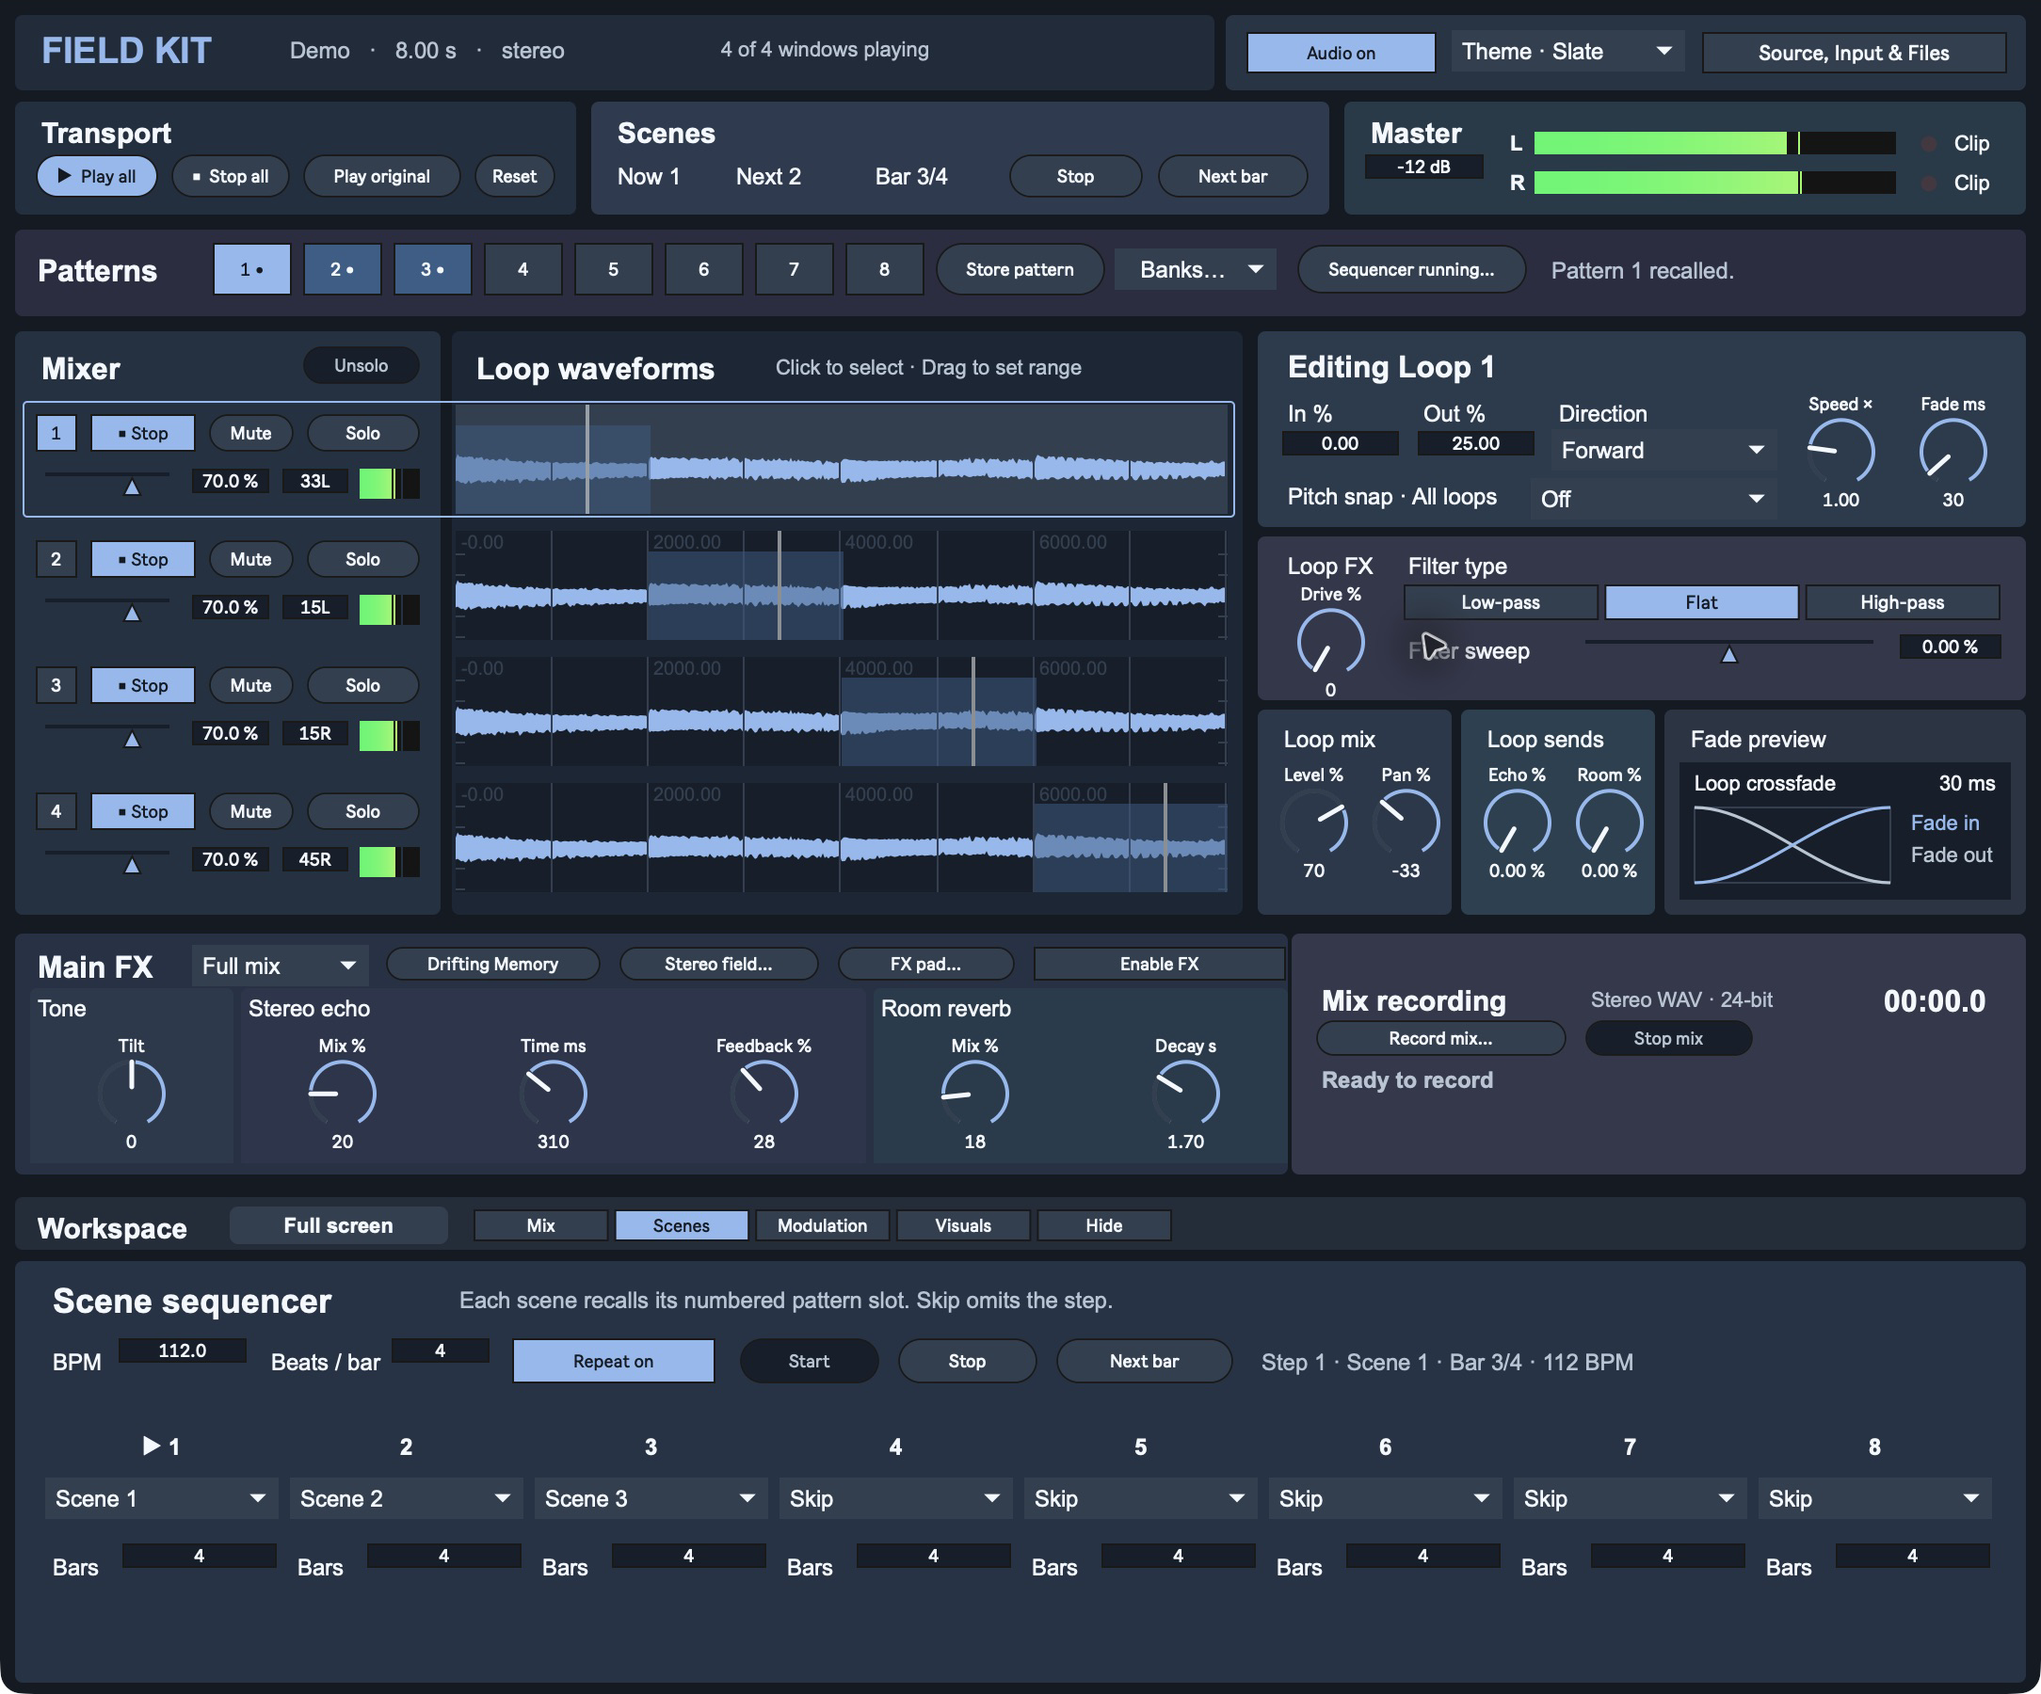
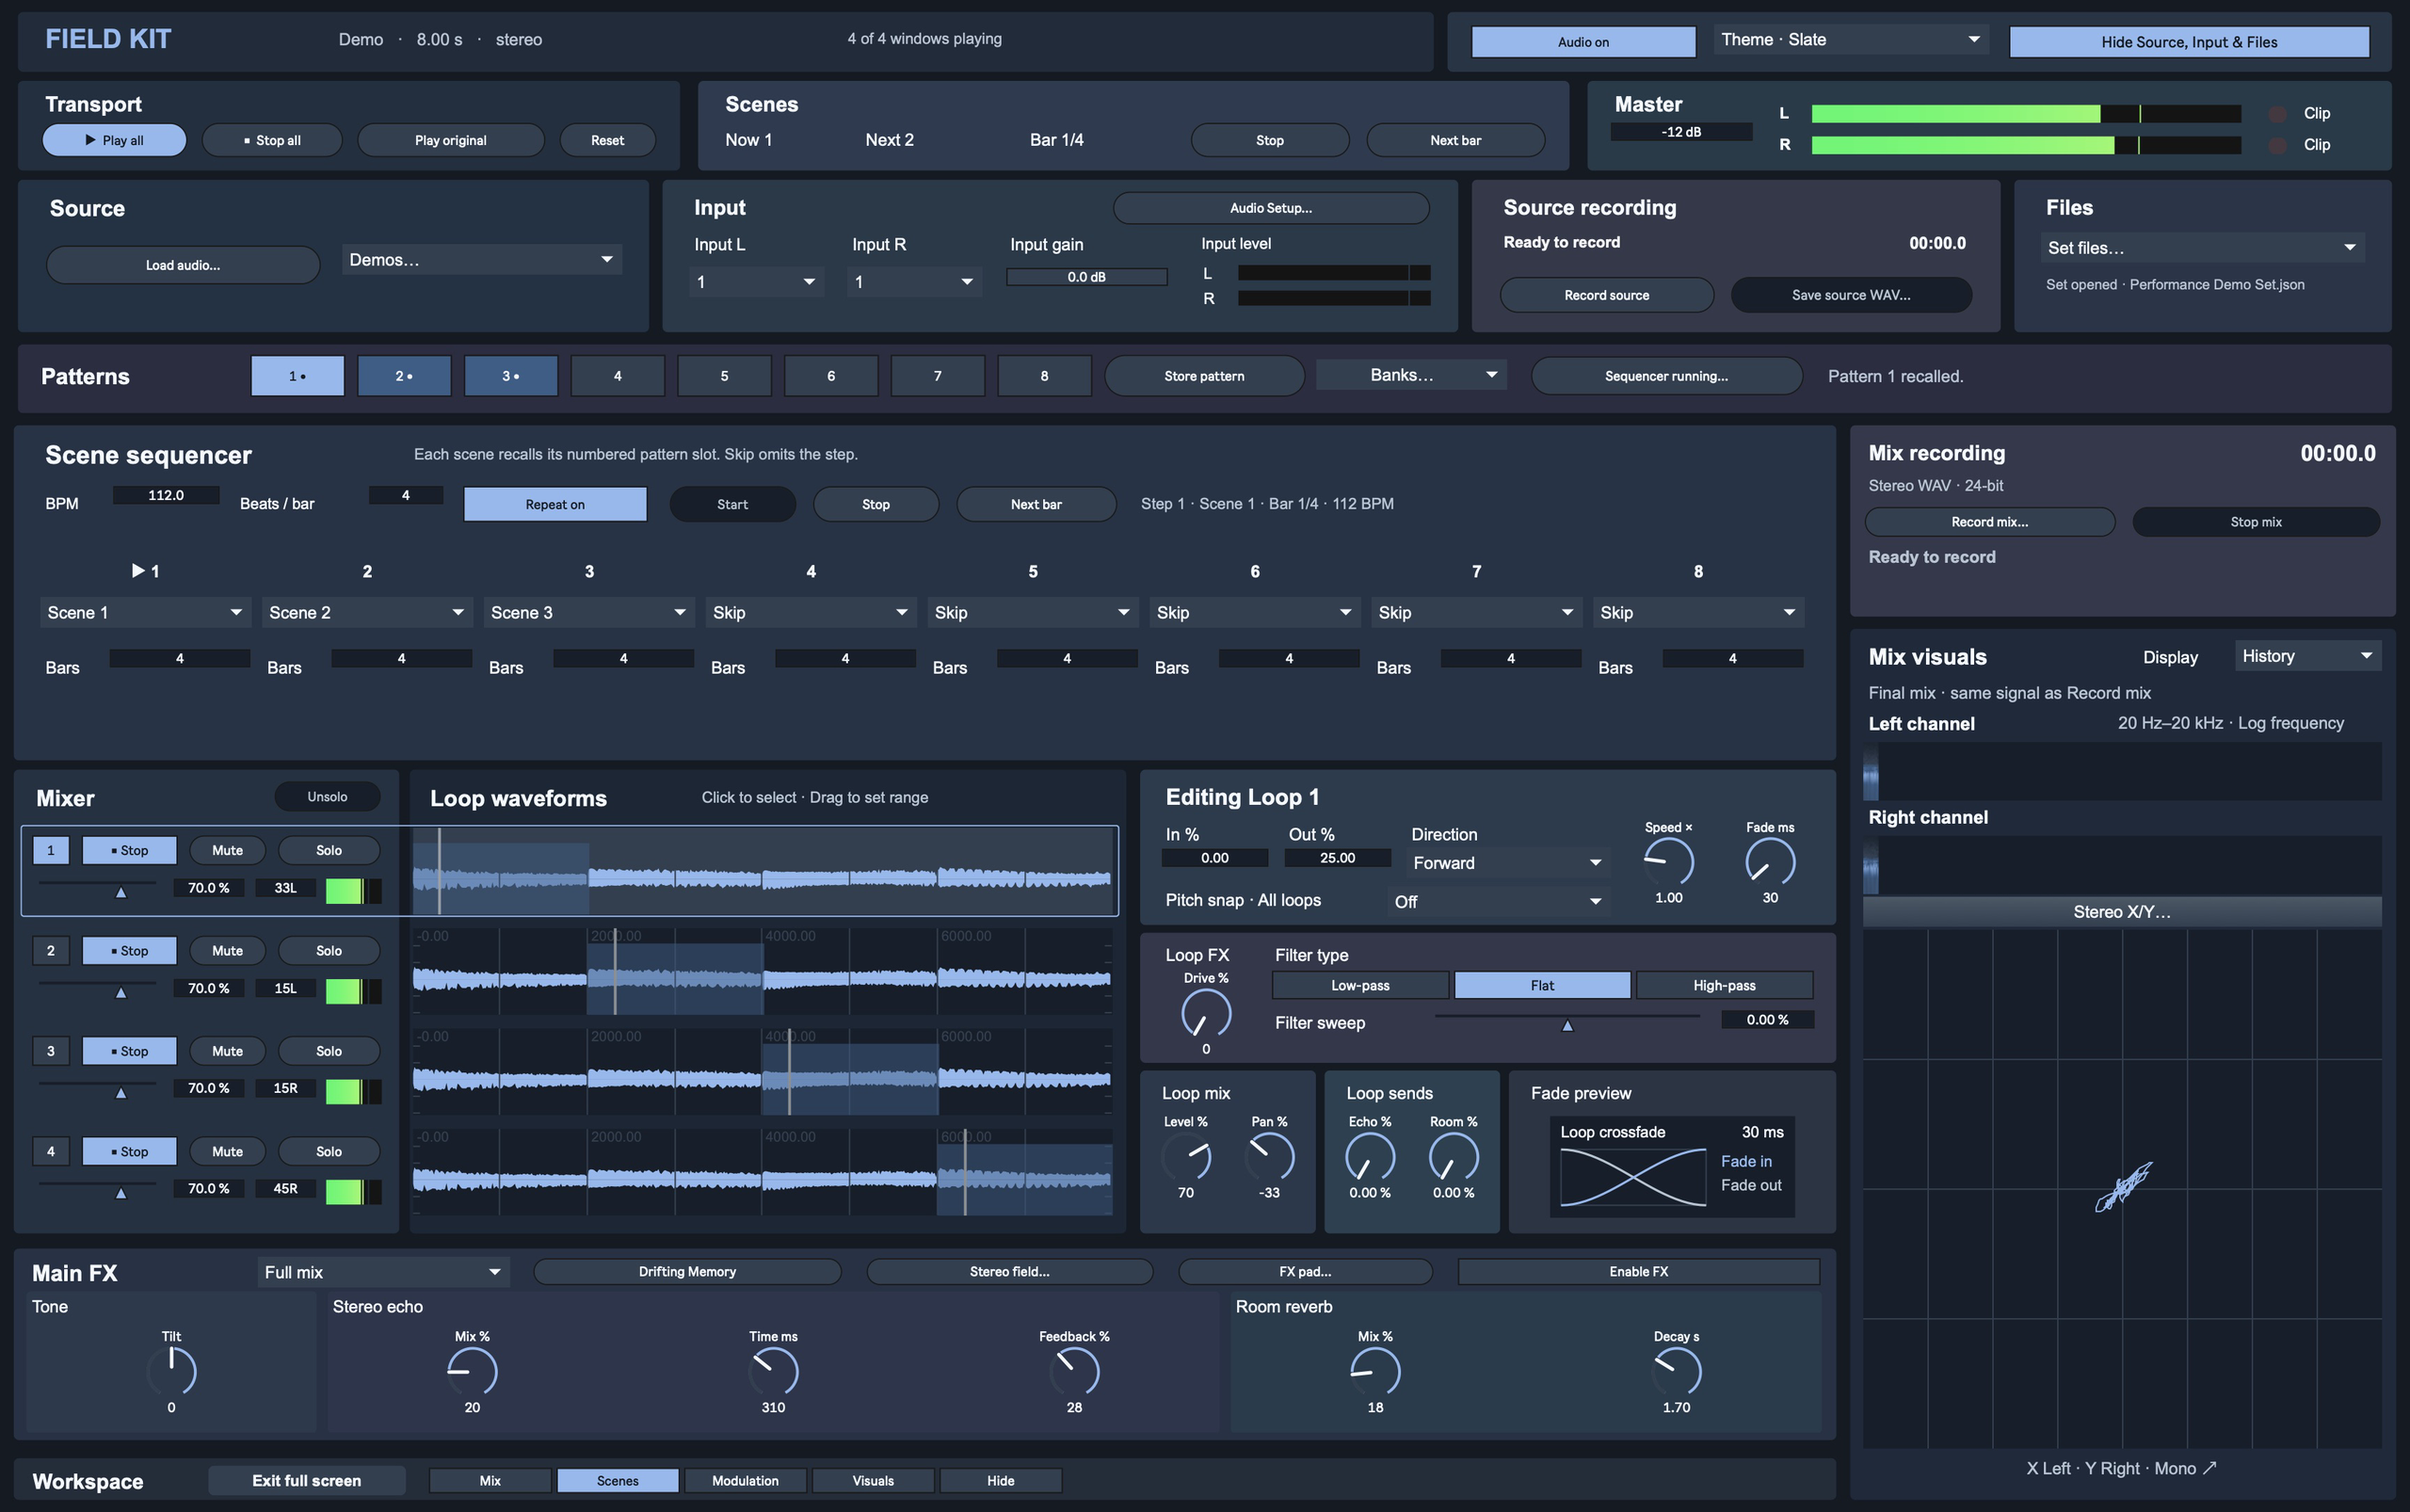
Refresh Field Kit v0.8.1 release screenshots

diff --git a/README.md b/README.md
@@ -7,9 +7,9 @@ FIELD KIT is a Max instrument that turns an audio file or a live recording into 
 - **[Download the latest Max patch](https://github.com/modelcollapse/field-kit/releases/latest/download/field-kit-max.zip).** Unzip it and double-click **Open FIELD KIT.maxpat** in Max 9. **START HERE.txt** has the quick instructions. Keep **Support** and the companion Max patches beside the launcher.
 - **[Download the latest standalone macOS app](https://github.com/modelcollapse/field-kit/releases/latest/download/field-kit-macos.zip).** Unzip it and open **Field Kit.app**. Max is not required.
 
-The v0.8.0 standalone includes Apple silicon and Intel binaries. It is ad hoc signed and has no Apple notarization. macOS may show a first launch alert. [Apple’s explanation of first launch alerts](https://support.apple.com/en-us/102445).
+The v0.8.1 standalone includes Apple silicon and Intel binaries. It is ad hoc signed and has no Apple notarization. macOS may show a first launch alert. [Apple’s explanation of first launch alerts](https://support.apple.com/en-us/102445).
 
-[See what's new in v0.8.0](CHANGELOG.md).
+[See what's new in v0.8.1](CHANGELOG.md).
 
 ![Field Kit standalone in full screen with four loops playing, the docked loop editor, and live stereo visuals beside the mix recorder](docs/screenshots/field-kit-standalone.jpg)
 
@@ -27,7 +27,7 @@ In the selected loop editor, choose **Low-pass** to cut highs, **High-pass** to 
 2. Set the linked input gain from −60 to +18 dB. It starts at 0 dB. The two peak meters show the levels after gain, with peak hold and a red overload indicator.
 3. Click **Record source** to capture up to 60 seconds. The red **RECORDING** badge and timer show when audio is being captured. **Stop source** loads the take into all four loops. Use **Save source WAV…** before saving a Set that uses the take or replacing the source.
 
-![The expanded Source, Input & Files drawer in the full-screen workspace](docs/screenshots/field-kit-source-drawer.jpg)
+![Glass Circuit playing with the Source, Input & Files drawer open and the Demos menu available](docs/screenshots/field-kit-source-drawer.jpg)
 
 ## Play and shape the loops
 
@@ -65,11 +65,13 @@ The scene clock controls when patterns change. Set the tempo and meter before yo
 
 The scene strip at the top, between **Transport** and **Master**, shows the current scene, the next playable scene, and progress through the current scene’s bars. Use **Start** or **Stop** and **Next bar** directly from the strip.
 
-![The scene sequencer running three four-bar steps at 112 BPM, with the current scene, next scene, and bar shown above the mixer](docs/screenshots/field-kit-scenes.png)
+![The Scene Sequencer open directly below Patterns, running three four-bar steps at 112 BPM](docs/screenshots/field-kit-scenes.png)
 
 Use the workspace selector to switch between **Mix**, **Scenes**, **Modulation**, and **Visuals**, or **Hide** to collapse the lower panel. **Mix** opens by default. On wide displays, **Full screen** puts **Mix recording** and **Mix visuals** in a right column that stays visible as you switch workspaces. Select **Visuals** there to collapse the lower panel and focus on the analyzers.
 
 **Visuals** monitors the same final stereo signal as **Record mix**. Choose **History** for a scrolling frequency history or **Spectrum** for a live frequency curve, with a separate view for each channel. Click **Stereo X/Y…** above the scope to open a larger, resizable window. The scope plots left against right. Matching left and right signals trace a rising diagonal. Opening Stereo X/Y or Stereo Field from full screen returns the workspace to a window so you can see both at once.
+
+![The resizable Stereo X/Y window showing the live left and right channels of the final mix](docs/screenshots/field-kit-stereo-scope.png)
 
 ## Patch modulation
 
@@ -93,7 +95,7 @@ Click **Record**, drag across the FX pad, and release. **Play** loops the gestur
 
 | Stereo field | FX pad |
 | --- | --- |
-| ![Stereo field with four loop positions and gesture controls](docs/screenshots/field-kit-stereo-field.png) | ![FX pad with full crosshairs and Echo mix and Room mix assigned to the axes](docs/screenshots/field-kit-fx-pad.png) |
+| ![The resizable Stereo Field window with four loop positions and gesture controls](docs/screenshots/field-kit-stereo-field.png) | ![FX pad with full crosshairs and Echo mix and Room mix assigned to the axes](docs/screenshots/field-kit-fx-pad.png) |
 
 **Drifting Memory** runs at the end of Main FX. In **Mix**, click **Enable effect**, play the loops, then choose **All** under **Arm capture**. With **Two Delays** and **Small**, the first return takes about 2½ seconds. The **Memory** meter shows what’s circulating in the delay. **Wet return** shows what the delay adds to the final mix. Use **Mix** to blend it in. **Off** stops capture and lets the tail play. Sets and patterns save the effect settings. Captured memory is for the current session.
 
